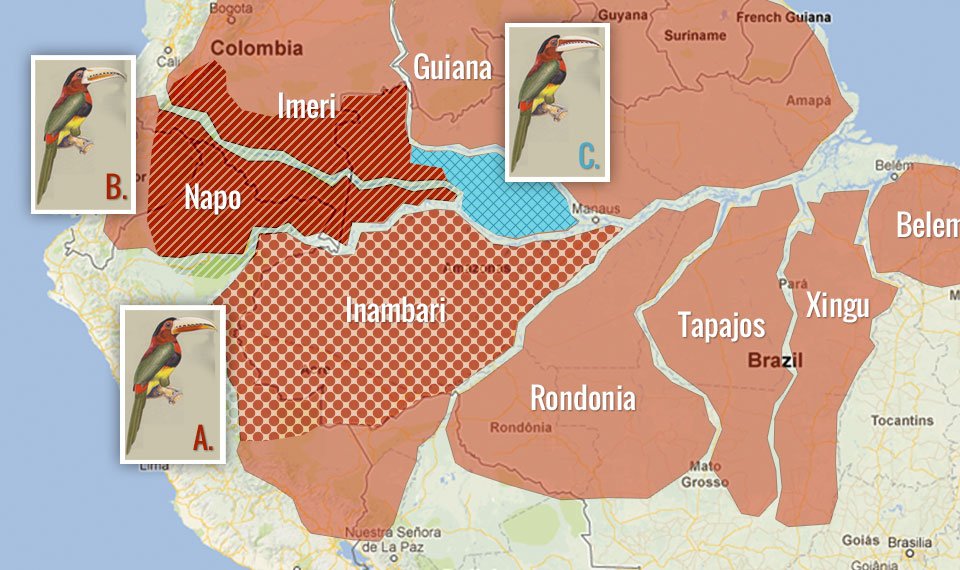
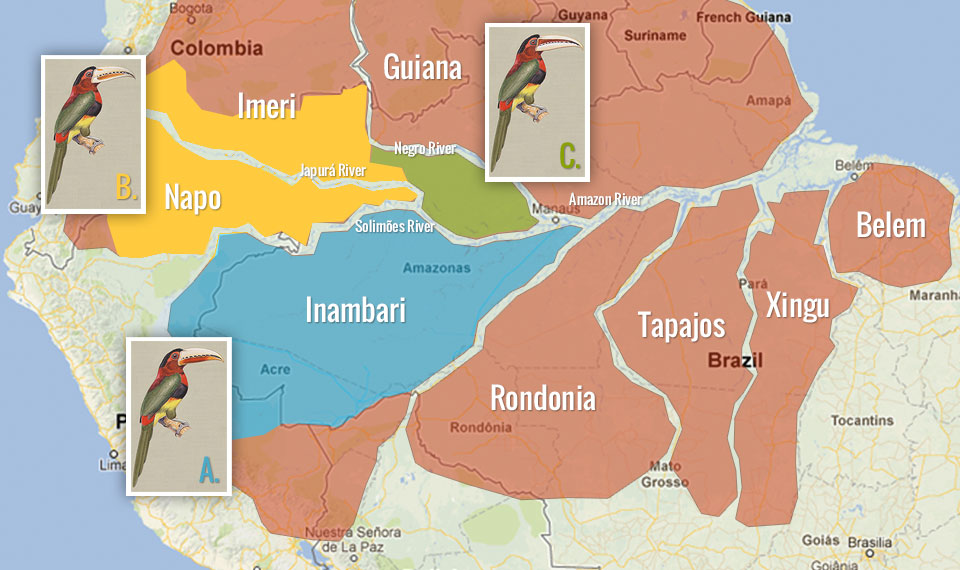
updated step1_conclusion

diff --git a/src/stylesheets/main.less b/src/stylesheets/main.less
@@ -3,6 +3,8 @@
 @font-grey: #acacac;
 @font-dk-grey: #636363;
 @font-blue: #4caac7;
+@font-yellow: #ffcb3f;
+@font-green: #869a1f;
 
 @border-red: #cc3d17;
 @border-dk-red: #621d0b;
@@ -736,6 +738,25 @@ a.btn, a.btn:hover, a.btn:visited {
 
   .btn.listen {
     margin-top: 0;
+  }
+
+  p.scientific {
+    font-style: italic;
+    font-size: 14px;
+    color: @font-dk-grey;
+    margin-top: 18px;
+  }
+
+  .mariae p.scientific strong {
+    color: @font-blue;
+  }
+
+  .flavirostris p.scientific strong {
+    color: @font-yellow;
+  }
+
+  .azara p.scientific strong {
+    color: @font-green
   }
 
 }
